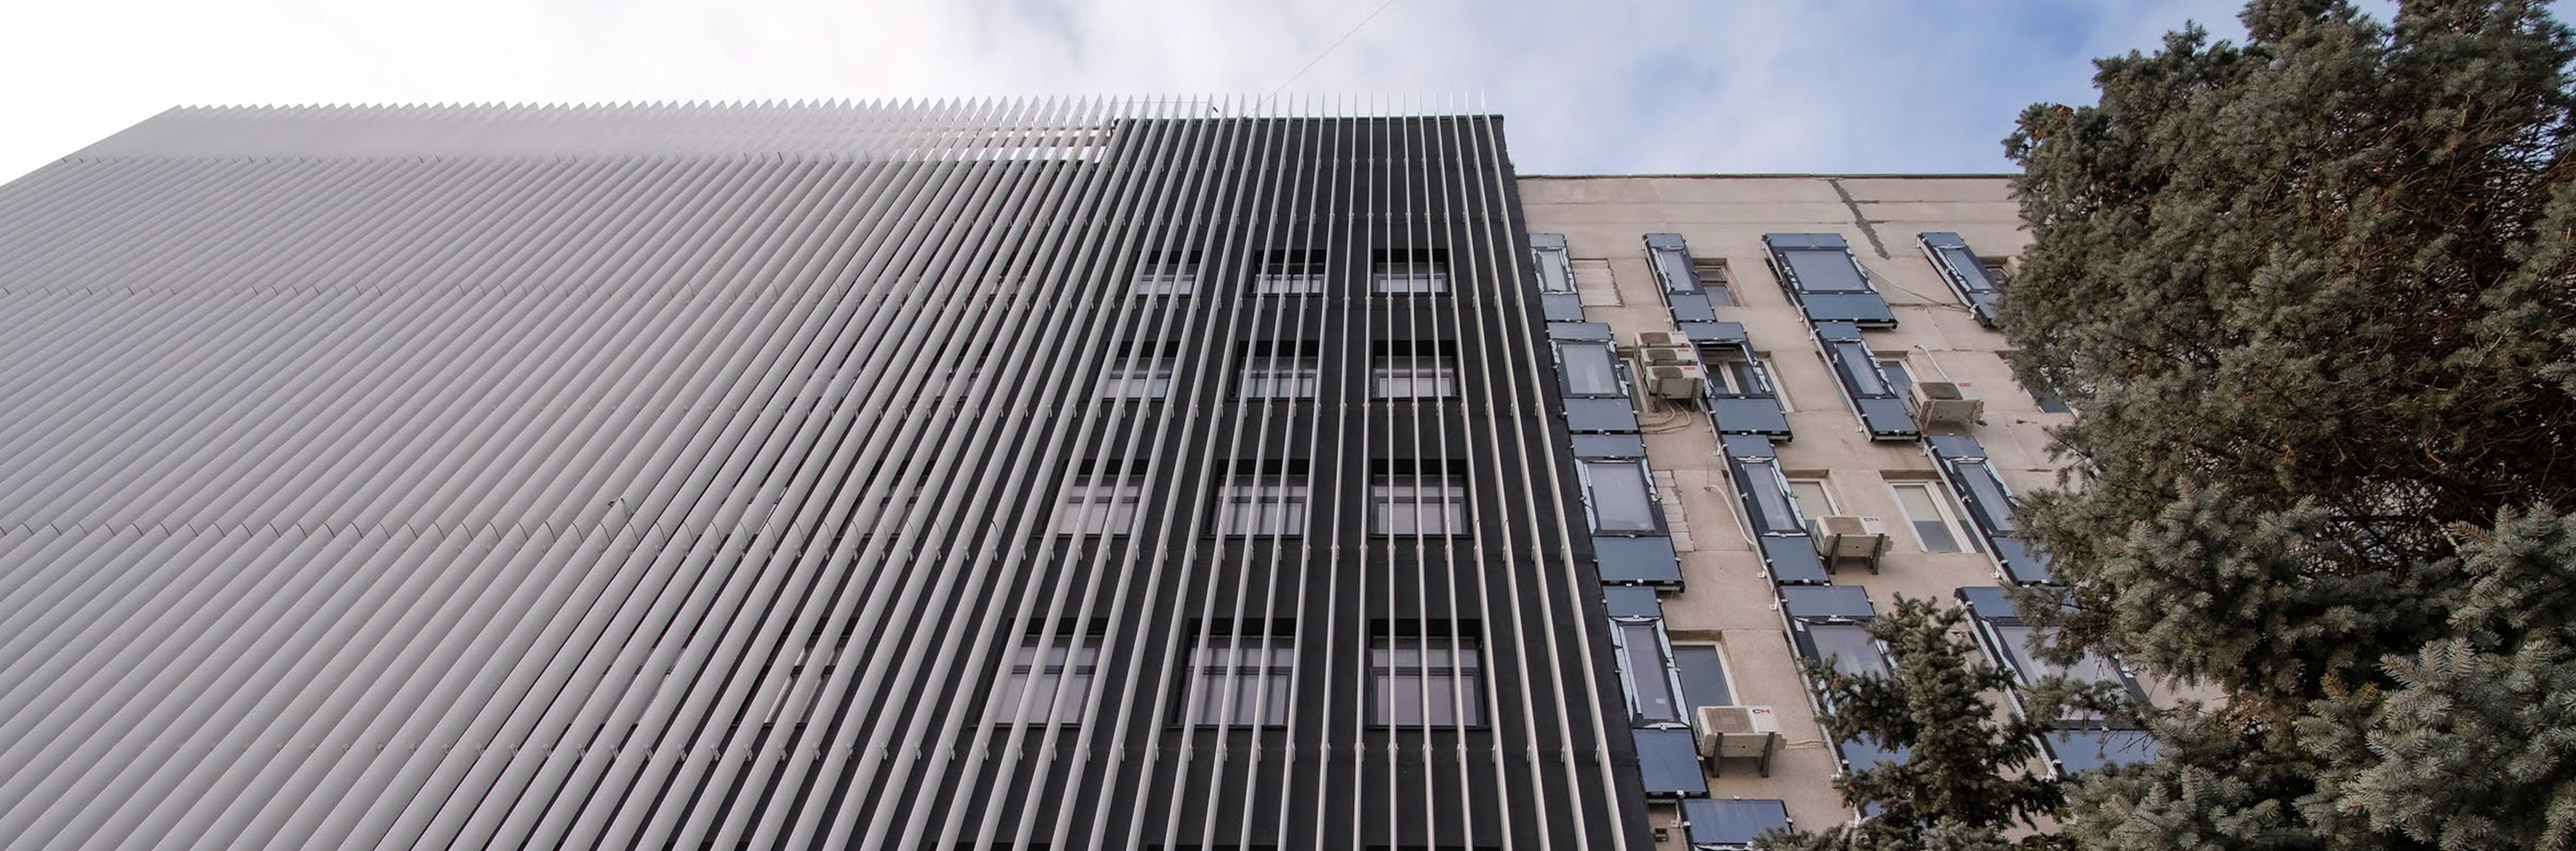
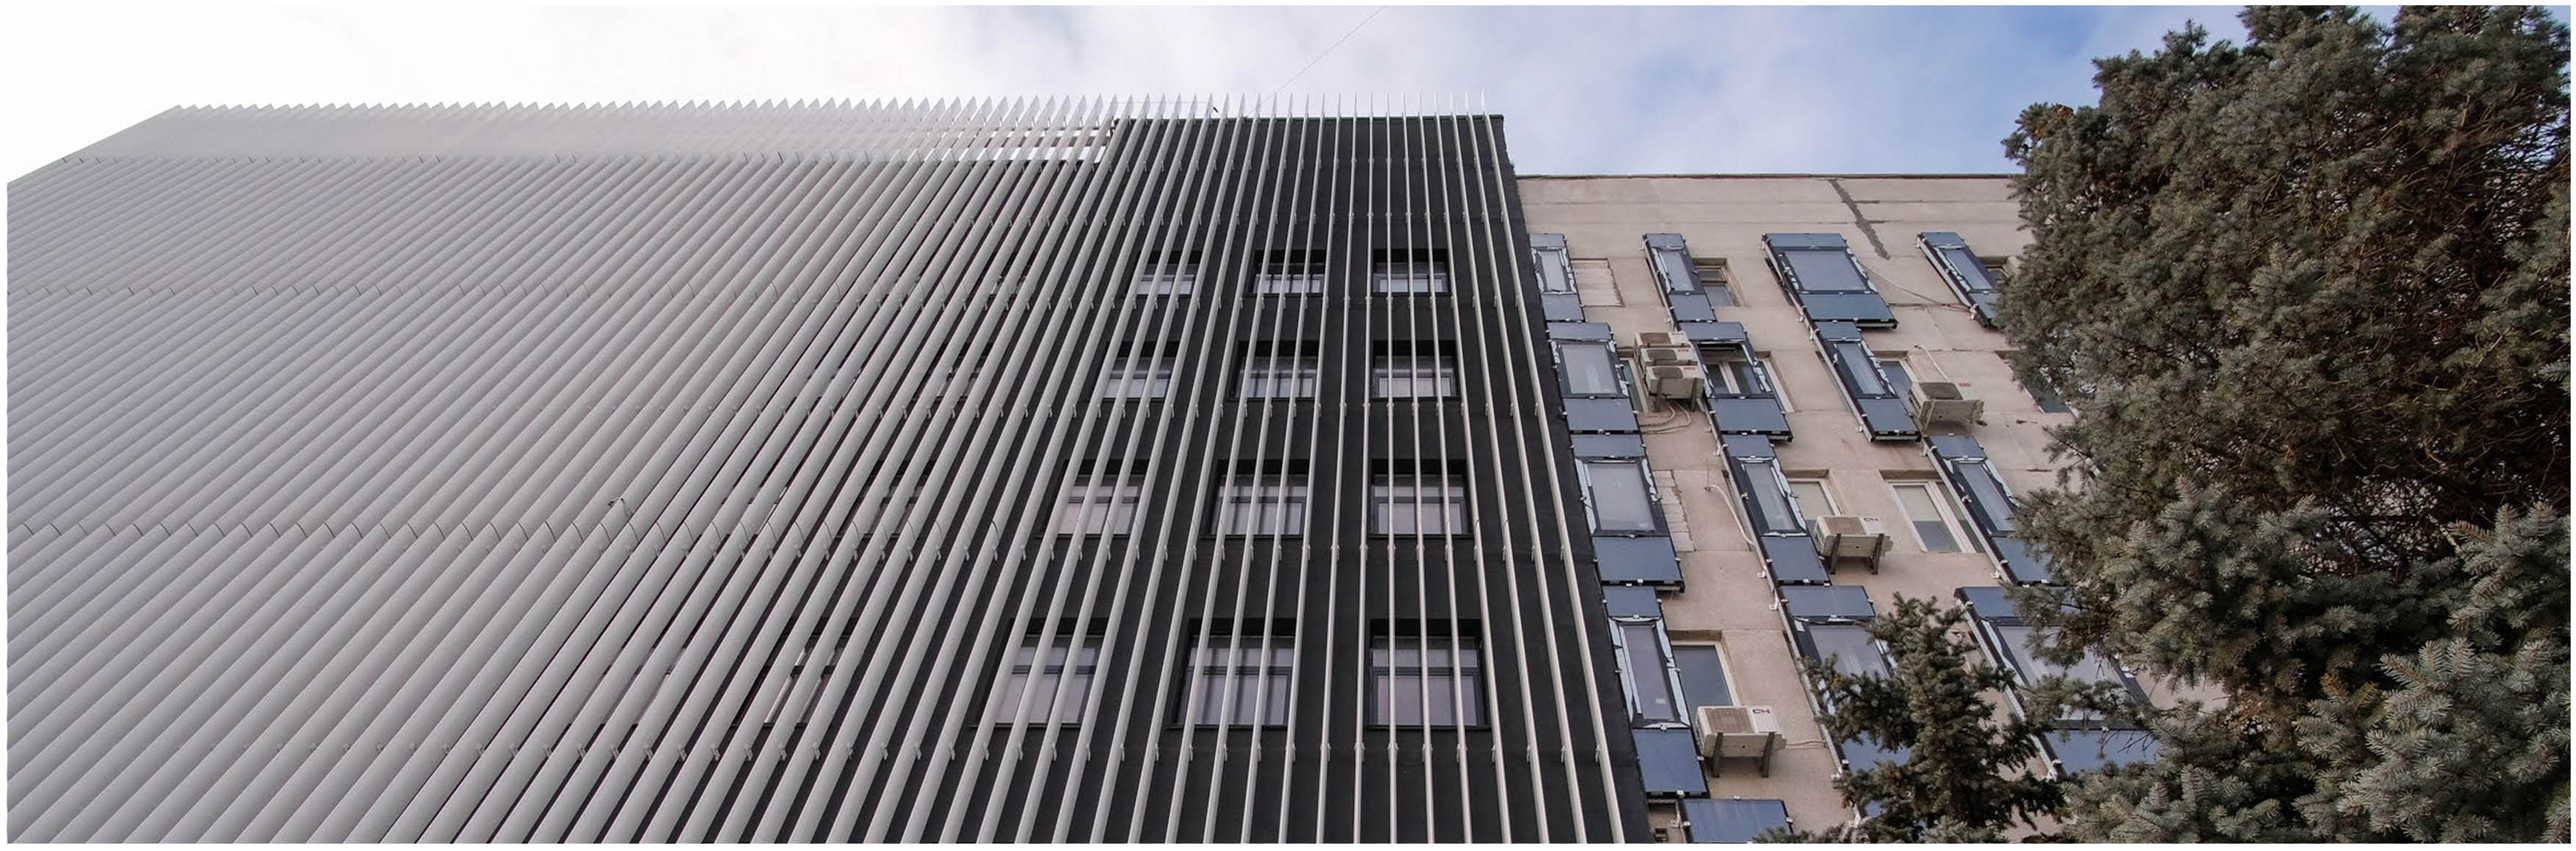
fix main images bottom line

Changed region(s): [[0.0, 0.0, 1.0, 1.0], [0.3726, 0.0, 0.4348, 0.031]]

diff --git a/assets/style/style.scss b/assets/style/style.scss
@@ -152,7 +152,7 @@ body._lock{
         .page__container{
             @include container;
             .page__title{
-                height: calc(100vh - 72px);
+                height: calc(100vh - 88px);
                 .title-container{
                     position: relative;
                     height: 100%;
@@ -160,7 +160,7 @@ body._lock{
                         position: absolute;
                         left: 0;
                         margin: 0;
-                        top: calc(50% - 72px / 2);
+                        top: calc(50% - 88px / 2);
                         -ms-transform: translateY(-50%);
                         transform: translateY(-50%);
                     }
@@ -200,7 +200,7 @@ body._lock{
                         position: absolute;
                         left: 0;
                         margin: 0;
-                        top: calc(50% - 72px / 2);
+                        top: calc(50% - 88px / 2);
                         -ms-transform: translateY(-50%);
                         transform: translateY(-50%);                        
                     }
@@ -534,7 +534,7 @@ body._lock{
 }
 
 .warning-page{
-    height: calc(100vh - 72px);
+    height: calc(100vh - 88px);
     text-align: center;
     color: #292929;
     display: flex;

diff --git a/assets/style/style.css b/assets/style/style.css
@@ -159,7 +159,7 @@ body._lock {
   margin: 0 auto;
 }
 .page__main .page__content .page__container .page__title {
-  height: calc(100vh - 72px);
+  height: calc(100vh - 88px);
 }
 .page__main .page__content .page__container .page__title .title-container {
   position: relative;
@@ -169,7 +169,7 @@ body._lock {
   position: absolute;
   left: 0;
   margin: 0;
-  top: calc(50% - 36px);
+  top: calc(50% - 44px);
   transform: translateY(-50%);
 }
 .page__main .page__content .page__container .page__title .title-container img {
@@ -218,7 +218,7 @@ body._lock {
   position: absolute;
   left: 0;
   margin: 0;
-  top: calc(50% - 36px);
+  top: calc(50% - 44px);
   transform: translateY(-50%);
 }
 .page__main .page__content .page__container .page__projects .section-wrapper .project__wrapper {
@@ -581,7 +581,7 @@ body._lock {
 }
 
 .warning-page {
-  height: calc(100vh - 72px);
+  height: calc(100vh - 88px);
   text-align: center;
   color: #292929;
   display: flex;

diff --git a/assets/style/media.css b/assets/style/media.css
@@ -1,11 +1,11 @@
-@media (orientation: landscape) and (max-height: 430px) {
+@media (orientation: landscape) and (max-height: 500px) {
     .page__main .page__content .page__container .page__title .title-container .title-anim{
-        top: 0;
+        top: 10px;
         -ms-transform: translateY(0);
         transform: translateY(0);
     }
     .page__main .page__content .page__container .page__title .title-container .title-text{
-        top: 0;
+        top: 10px;
         -ms-transform: translateY(0);
         transform: translateY(0);
     }
@@ -198,7 +198,7 @@
         width: 100%;
         height: 100%;
         background-color: rgba(255, 255, 255);
-        padding: 0 0 72px 0;
+        padding: 0 0 88px 0;
         transition: all .3s ease 0s;
         overflow: hidden;
         display: flex;

diff --git a/en/project/style/project-slider-style.scss b/en/project/style/project-slider-style.scss
@@ -8,7 +8,7 @@ body {overflow: hidden;}
 
 .page__main .page__content{padding: 0;}
 
-.image-slider__wrapper{padding-top: 72px;}
+.image-slider__wrapper{padding-top: 88px;}
 
 .image-slider__image{
     text-align: center;
@@ -17,7 +17,7 @@ body {overflow: hidden;}
 
 .image-slider__image img{
     max-width: 100%;
-    max-height: calc(100vh - 72px);
+    max-height: calc(100vh - 88px);
     min-height: 100%;
     padding-bottom: 10px;
 }

diff --git a/project/style/project-slider-style.scss b/project/style/project-slider-style.scss
@@ -8,7 +8,7 @@ body {overflow: hidden;}
 
 .page__main .page__content{padding: 0;}
 
-.image-slider__wrapper{padding-top: 72px;}
+.image-slider__wrapper{padding-top: 88px;}
 
 .image-slider__image{
     text-align: center;
@@ -17,7 +17,7 @@ body {overflow: hidden;}
 
 .image-slider__image img{
     max-width: 100%;
-    max-height: calc(100vh - 72px);
+    max-height: calc(100vh - 88px);
     min-height: 100%;
     padding-bottom: 10px;
 }

diff --git a/project/style/project-slider-style.css b/project/style/project-slider-style.css
@@ -15,7 +15,7 @@ body {
 }
 
 .image-slider__wrapper {
-  padding-top: 72px;
+  padding-top: 88px;
 }
 
 .image-slider__image {
@@ -25,7 +25,7 @@ body {
 
 .image-slider__image img {
   max-width: 100%;
-  max-height: calc(100vh - 72px);
+  max-height: calc(100vh - 88px);
   min-height: 100%;
   padding-bottom: 10px;
 }
